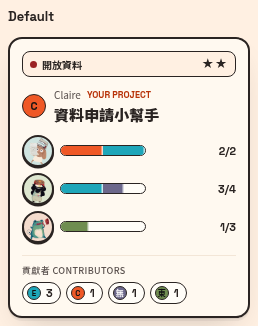
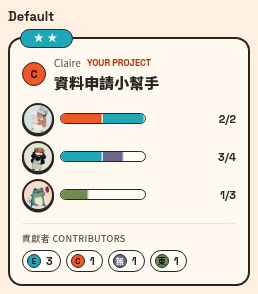
fix(webapp): match prototype hint halo, flat cards and teal star tag
- GeneralHint: solid ink border + cream fill with teal ring and breathing
  teal halo (prototype .bcard.eligible); drops dashed peach treatment.
- JobHint: card unchanged; hinted requirement row gets dashed orange
  outline with peach fill (Figma).
- Flat cards: remove sticker shadow from .project-card and hint/focus states.
- Board star tag: floating teal pill with white stars on the top-left edge;
  type name/dot dropped from the board card. Hand face unchanged.
- Focused/selected board cards keep the orange ring but no longer lift.
- Refresh story-10 screenshots and shots.mjs assertions; add before shots.

diff --git a/packages/webapp/src/app/globals.css b/packages/webapp/src/app/globals.css
@@ -237,7 +237,8 @@ button {
   box-shadow: var(--shadow-sticker);
 }
 
-/* ProjectCard (story 10): shared paper, tag and type for in-play and hand faces. */
+/* ProjectCard (story 10): shared paper, tag and type for in-play and hand faces.
+   Cards are flat (prototype .bcard / Figma): 2px ink border, no sticker shadow. */
 .project-card {
   position: relative;
   display: flex;
@@ -252,7 +253,7 @@ button {
   background: #fff9f0;
   color: var(--ink);
   font-family: var(--font-zh);
-  box-shadow: var(--shadow-sticker);
+  overflow: visible;
   overflow-wrap: anywhere;
   transition: transform 0.12s ease;
 }
@@ -260,18 +261,40 @@ button {
   isolation: isolate;
   height: 100%;
   min-height: 224px;
+  /* Floating star pill sits at top -10px; the parent grid reserves that room. */
+  padding-top: 16px;
 }
-/* Figma state annotations were unavailable: assume a lifted orange focus ring,
-   a dashed peach GeneralHint, and a teal JobHint with one emphasized job row. */
+/* GeneralHint (prototype .bcard.eligible / Figma): solid ink border and cream
+   fill, steady teal ring plus a breathing teal halo. */
 .project-card--generalHint {
-  border-style: dashed;
-  border-color: #dd8664;
-  background: #fff0e2;
+  box-shadow: 0 0 0 3px rgba(30, 166, 185, 0.35);
 }
-.project-card--jobHint {
-  border-color: var(--teal-deep);
-  box-shadow: 0 0 0 1px var(--teal-soft), var(--shadow-sticker);
+.project-card--generalHint::before {
+  content: '';
+  position: absolute;
+  /* Prototype: inset -2px + 5px spread. Pseudo sits in the padding box (inside the
+     2px border), so a 7px spread draws the same halo without overflowing. */
+  inset: 0;
+  border-radius: calc(var(--radius) - 2px);
+  box-shadow: 0 0 0 7px rgba(30, 166, 185, 0.5);
+  opacity: 0;
+  pointer-events: none;
+  will-change: opacity;
+  animation: breathe 1.6s ease-in-out infinite;
 }
+@keyframes breathe {
+  50% {
+    opacity: 1;
+  }
+}
+@media (prefers-reduced-motion: reduce) {
+  .project-card--generalHint::before {
+    animation: none;
+    opacity: 0.6;
+  }
+}
+/* JobHint (Figma): the card itself is unchanged; only the hinted requirement
+   row is highlighted (see .project-card__progress-row--hinted). */
 .project-card__control {
   position: absolute;
   inset: 0;
@@ -286,10 +309,14 @@ button {
   outline: 3px solid var(--ink);
   outline-offset: 3px;
 }
+/* Orange ring. Only hand faces lift (prototype .hcard.selected); board cards
+   (.bcard.selected) do not. */
 .project-card--focused,
 .project-card--in-play:has(> .project-card__control:focus-visible) {
   border-color: var(--orange);
-  box-shadow: 0 0 0 2px var(--orange), var(--shadow-sticker);
+  box-shadow: 0 0 0 2px var(--orange);
+}
+.project-card--focused:not(.project-card--in-play) {
   transform: translateY(-3px);
 }
 .project-card__contribution-controls,
@@ -366,6 +393,26 @@ button {
   letter-spacing: 0.06em;
   white-space: nowrap;
 }
+/* Prototype .bcard-tags + .tag.stars-tag: teal pill, white stars, floating on
+   the card's top-left edge. */
+.project-card__star-pill {
+  position: absolute;
+  top: -10px;
+  left: 10px;
+  z-index: 1;
+  padding: 1px 12px;
+  border: 1.5px solid var(--ink);
+  border-radius: 99px;
+  background: var(--teal);
+  color: #fff;
+  font-family: var(--font-en);
+  font-size: 11px;
+  font-weight: 700;
+  letter-spacing: 2px;
+  line-height: 1.4;
+  white-space: nowrap;
+  pointer-events: none;
+}
 .project-card__title-row {
   display: flex;
   align-items: center;
@@ -408,10 +455,13 @@ button {
   min-width: 0;
   border-radius: var(--radius-sm);
 }
-/* Inset teal emphasis remains visible alongside the orange profession picker. */
+/* Figma JobHint: dashed orange rounded rect with peach fill. */
 .project-card__progress-row--hinted {
-  background: var(--teal-soft);
-  box-shadow: inset 0 0 0 2px var(--teal-deep);
+  margin: -3px -5px;
+  padding: 3px 5px;
+  background: #fff0e2;
+  outline: 2px dashed var(--orange);
+  outline-offset: -2px;
 }
 .project-card__progress-row[role='button'] {
   min-height: 44px;

diff --git a/packages/webapp/src/components/board/BoardProjectSlot.tsx b/packages/webapp/src/components/board/BoardProjectSlot.tsx
@@ -1,7 +1,7 @@
 import React from 'react';
 import { FilteredMetadata, PlayerID } from 'boardgame.io';
 import { ProjectSlotState } from '@/game';
-import { CharacterAvatar, getJobMetaByName, getProjectTypeMetaByName } from '@/components/design';
+import { CharacterAvatar, getJobMetaByName } from '@/components/design';
 import { useAppDispatch, useAppSelector } from '@/lib/hooks';
 import {
   isJoinedContributionInteractive,
@@ -57,7 +57,6 @@ export default function BoardProjectSlot({
   if (!slot.card) return null;
 
   const card = slot.card;
-  const typeMeta = getProjectTypeMetaByName(card.type);
   const isOwn = playerID !== null && slot.owner === playerID;
   const selected = slotsInteractive && !!selectedSlots[slot.id];
   const resolvedState = visualState ?? (selected ? 'focused' : 'default');
@@ -111,15 +110,9 @@ export default function BoardProjectSlot({
           onClick={handleClick}
         />
       )}
-      <div className="project-card__tag">
-        <span className="project-card__type">
-          <span className="project-card__type-dot" style={{ background: typeMeta?.color ?? 'var(--ink-soft)' }} />
-          {card.type}
-        </span>
-        <span className="project-card__stars" aria-label={`難度 ${card.difficulty}`}>
-          {'★'.repeat(card.difficulty)}
-        </span>
-      </div>
+      <span className="project-card__star-pill" aria-label={`難度 ${card.difficulty}`}>
+        {'★'.repeat(card.difficulty)}
+      </span>
 
       <div className="project-card__title-row">
         <span

diff --git a/packages/webapp/src/components/board/BoardProjectSlot.test.tsx b/packages/webapp/src/components/board/BoardProjectSlot.test.tsx
@@ -145,13 +145,14 @@ describe('BoardProjectSlot card content', () => {
   });
 
   it('shows the initiator, title, type, ownership, progress fractions and contributor chips', () => {
-    const { getByTestId, getByText, getByLabelText, getByRole } = renderVisualSlot();
+    const { getByTestId, getByText, queryByText, getByLabelText, getByRole } = renderVisualSlot();
     expect(getByTestId(visualSlot.id).getAttribute('data-job-requirements')).toBe(
       JSON.stringify(visualSlot.card!.requirements),
     );
     expect(getByText('Claire')).toBeTruthy();
     expect(getByRole('heading', { name: '資料申請小幫手' })).toBeTruthy();
-    expect(getByText('開放資料')).toBeTruthy();
+    expect(getByLabelText('難度 3').textContent).toBe('★★★');
+    expect(queryByText('開放資料')).toBeNull();
     expect(getByText('YOUR PROJECT')).toBeTruthy();
     ['2/2', '3/4', '1/3'].forEach((fraction) => expect(getByText(fraction)).toBeTruthy());
     expect(getByText('貢獻者 CONTRIBUTORS')).toBeTruthy();

diff --git a/packages/webapp/src/components/BoardGame.tsx b/packages/webapp/src/components/BoardGame.tsx
@@ -165,7 +165,8 @@ const Board: React.FC<GameContext> = (gameContext) => {
             display: 'grid',
             gridTemplateColumns: 'repeat(auto-fill, minmax(220px, 1fr))',
             gap: 14,
-            marginTop: 12,
+            // +10px room for the floating star pill above each card.
+            marginTop: 22,
           }}
         >
           {occupiedSlots.map((slot) => (
